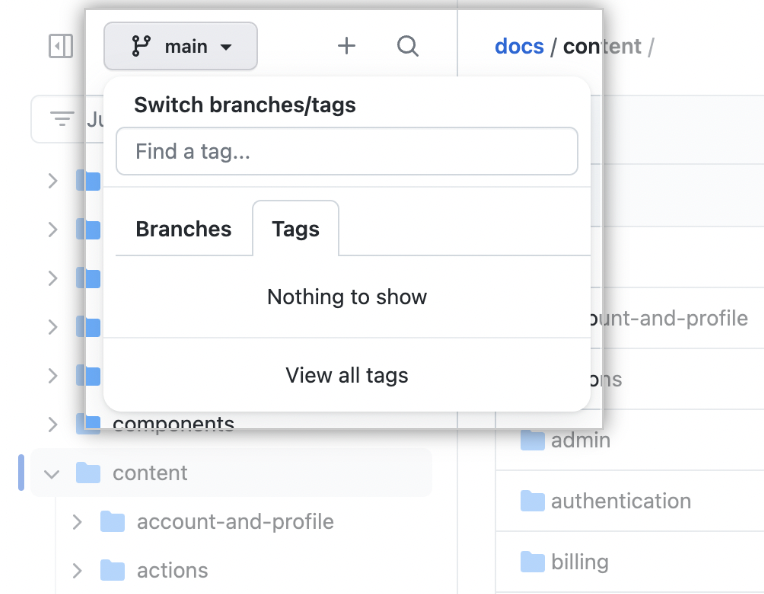
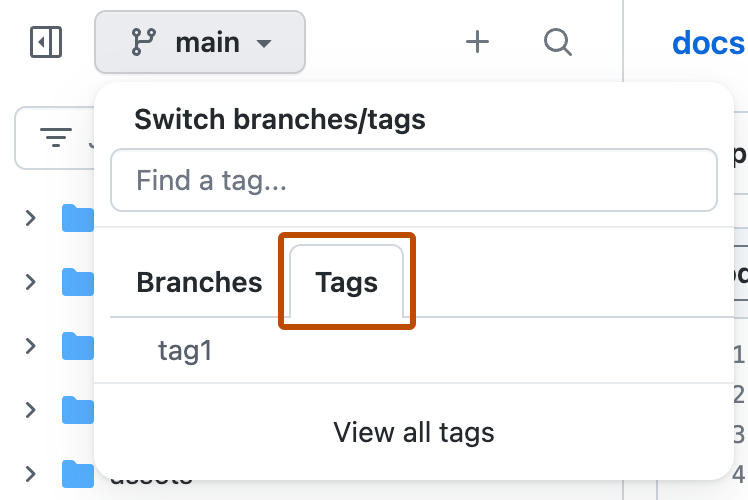
Add content for new code view and new code search public beta (#34948)

diff --git a/content/repositories/working-with-files/managing-files/navigating-files-with-the-new-code-view.md b/content/repositories/working-with-files/managing-files/navigating-files-with-the-new-code-view.md
@@ -11,16 +11,14 @@ shortTitle: New code view (beta)
 
 {% note %}
 
-**Note**: {% data reusables.search.code-search-code-view-beta-note %} 
+**Note**: {% data reusables.search.code-search-code-view-beta-note %}
 
 {% data reusables.search.code-search-link %}
 
 {% endnote %}
 
 ## About the new code view (beta)
-The new code view beta improves navigation with a file tree view, simplifies file editing, introduces a symbols pane for symbol search and navigation, and updates the blame view to maintain file context. The new code view is integrated with a new code search engine and search interface in a limited public beta on {% data variables.product.prodname_dotcom_the_website %}. {% data reusables.search.code-search-link %}
-
-To get access to the new code view (beta), along with the new code search, you can sign up for the [waitlist](https://github.com/features/code-search-code-view/signup).
+The new code view beta improves navigation with a file tree view, simplifies file editing, introduces a symbols pane for symbol search and navigation, and updates the blame view to maintain file context. The new code view is integrated with a new code search engine and search interface in a public beta on {% data variables.product.prodname_dotcom_the_website %}. {% data reusables.search.code-search-link %}
 
 To provide feedback on the new code view beta, see the [discussion forum](https://github.com/orgs/community/discussions/categories/repositories).
 
@@ -32,36 +30,25 @@ To provide feedback on the new code view beta, see the [discussion forum](https:
 The new file tree view is a panel that displays a repository's directories and files within an easily navigable tree. You can move between directories and files quickly and understand the context for each item you view.
 
 1. Select a repository, then click a directory or file within that repository to open the file tree view.
+1. To search for a specific directory or file, in the file tree view, click the {% octicon "filter" aria-label="The filter icon" %} **Jump to file** search bar, then type the directory or file name and select the directory or file from the results. You can view the file path for a directory or file below each search result.
 
-  ![Screenshot of the "github/docs" repository with emphasis on the file tree view](/assets/images/help/repository/file-tree-view-directory-selected.png)
+  ![Screenshot of the file tree view for a repository. A search bar, labeled "Jump to file", is outlined in dark orange.](/assets/images/help/repository/file-tree-view-jump-to-file.png)
 
-1. To search for a specific directory or file, click the {% octicon "filter" aria-label="The filter icon" %} **Jump to file** search bar, then type the directory or file name and select the directory or file from the results. You can view the file path for a directory or file below each search result.
-
-  ![Screenshot of the file tree view with emphasis on the "Jump to file" search bar](/assets/images/help/repository/file-tree-view-jump-to-file.png)
-
-     - To search within the repository using the {% data variables.product.prodname_dotcom %} search bar, click {% octicon "search" aria-label="The search icon" %}.
-
-        ![Screenshot of the file tree view with emphasis on the search icon](/assets/images/help/repository/file-tree-view-search-icon.png)
+     - To search within the repository using the {% data variables.product.prodname_dotcom %} search bar, click {% octicon "search" aria-label="The search icon" %} in the file tree view.
 
 1. To switch between branches, select the {% octicon "git-branch" aria-label="The branch icon" %} branch dropdown menu, then click the desired branch from the results. To view all branches for a repository, click **View all branches**.
 
-  ![Screenshot of the file tree view with emphasis on the "Branches" tab of the branch dropdown menu](/assets/images/help/repository/file-tree-view-branch-dropdown.png)
+  ![Screenshot of the file tree view for a repository. A dropdown menu for switching branches is expanded and outlined in dark orange.](/assets/images/help/repository/file-tree-view-branch-dropdown.png)
 
-1. To switch between tags, select {% octicon "git-branch" aria-label="The branch icon" %} branch dropdown menu, click the **Tags** tab, then click the desired tag from the results. To view all tags for a repository, click **View all tags**.
+1. To switch between tags, select the {% octicon "git-branch" aria-label="The branch icon" %} branch dropdown menu, click the **Tags** tab, then click the desired tag from the results. To view all tags for a repository, click **View all tags**.
 
-  ![Screenshot of the file tree view with emphasis on the "Tags" tab of the branch dropdown menu](/assets/images/help/repository/file-tree-view-branch-dropdown-tags.png)
+  ![Screenshot of the file tree view. A dropdown menu for switching branches is expanded, and a tab, labeled "Tags", is outlined in dark orange.](/assets/images/help/repository/file-tree-view-branch-dropdown-tags.png)
 
 ## Working with files
-The new code view also includes updates to the ways in which you work with files. Existing functionality like editing a file, creating or uploading a file, and deleting a file or directory has been streamlined. You now have quick access to editing a file in github.dev or {% data variables.product.prodname_desktop %} and an integrated search-in-file function. 
+The new code view also includes updates to the ways in which you work with files. Existing functionality like editing a file, creating or uploading a file, and deleting a file or directory has been streamlined. You now have quick access to editing a file in github.dev or {% data variables.product.prodname_desktop %} and an integrated search-in-file function.
 
 1. Select a repository, then click a file within that repository to open the new code view.
-
-  ![Screenshot of the "github/docs" repository with emphasis on a selected file in the file tree view](/assets/images/help/repository/file-tree-view-file-selected.png)
-
 1. To edit a file in the integrated file editor, click {% octicon "pencil" aria-label="The pencil icon" %}.
-
-  ![Screenshot of the file editor in the new code view with emphasis on the edit icon](/assets/images/help/repository/code-view-edit-icon.png)
-
 1. To edit a file on the {% data variables.codespaces.serverless %} web-based editor or {% data variables.product.prodname_desktop %}, select {% octicon "triangle-down" aria-label="The downwards-facing triangle icon" %} next to {% octicon "pencil" aria-label="The pencil icon" %}, then click either **github.dev** or **{% data variables.product.prodname_desktop %}**.
 
   {% note %}
@@ -69,8 +56,6 @@ The new code view also includes updates to the ways in which you work with files
   **Note:** The {% data variables.codespaces.serverless %} editor is currently in beta preview. You can provide feedback [in our discussions](https://github.com/community/community/discussions/categories/general).
 
   {% endnote %}
-
-  ![Screenshot of the file editor in the new code view with emphasis on the edit dropdown menu](/assets/images/help/repository/code-view-edit-dropdown.png)
 
 1. To find specific characters within a file, view the raw code of the file by clicking the **Code** button. Next, press <kbd>Command</kbd>+<kbd>F</kbd> (Mac) or <kbd>Ctrl</kbd>+<kbd>F</kbd> (Windows/Linux) and type the characters you want to find. You can navigate between results by pressing <kbd>Return</kbd> (Mac) or <kbd>Enter</kbd> (Windows/Linux), or by clicking {% octicon "chevron-down" aria-label="The downwards-facing chevron icon" %} and {% octicon "chevron-up" aria-label="The upwards-facing chevron icon" %}.
 
@@ -80,19 +65,13 @@ The new code view also includes updates to the ways in which you work with files
 
   {% endnote %}
 
-  ![Screenshot of the "Find in file" function in the new code view](/assets/images/help/repository/code-view-find-in-file.png)
+1. To create a new file in a specific directory, navigate to the chosen directory. Next, select the **Add file** {% octicon "triangle-down" aria-label="The downwards-facing triangle icon" %} dropdown menu, then click {% octicon "plus" aria-label="The plus sign icon" %} **Create new file**.
 
-1. To add a new file to a specific directory, click that directory, then click {% octicon "plus" aria-label="The plus sign icon" %} **New file**, or click the {% octicon "plus" aria-label="The plus sign icon" %} in the file tree view.
-
-  ![Screenshot of the file tree view with emphasis on the plus icon](/assets/images/help/repository/file-tree-view-new-file-icon.png)
-
+  Alternatively, you can click {% octicon "plus" aria-label="The plus sign icon" %} in the file tree view.
 1. To delete a directory or file, navigate to the directory or file and click {% octicon "kebab-horizontal" aria-label="The horizontal kebab icon" %} . Then, click **Delete directory** or **Delete file**.
+1. To upload a file, navigate to the chosen directory. Next, select the **Add file** {% octicon "triangle-down" aria-label="The downwards-facing triangle icon" %} dropdown menu, then click {% octicon "upload" aria-label="The upload icon" %} **Upload files**.
 
-  ![Screenshot of the options menu in the new code view with emphasis on the "Delete directory" option](/assets/images/help/repository/code-view-delete-directory.png)
-
-1. To upload a file, navigate to the chosen directory, then click {% octicon "upload" aria-label="The upload icon" %} **Upload files** or drag and drop the file into your browser.
-
-  ![Screenshot of the "Upload files" button in the new code view](/assets/images/help/repository/code-view-upload-files.png)
+  Alternatively, you can drag and drop files into your browser.
 
 ## Using the symbols pane
 You can now quickly view and navigate between symbols such as functions or classes in your code with the symbols pane. You can search for a symbol in a single file, in all files in a repository, or even in all public repositories on {% data variables.product.prodname_dotcom %}.
@@ -100,60 +79,28 @@ You can now quickly view and navigate between symbols such as functions or class
 Symbol search is a feature of the new code search (beta). For more information, see "[AUTOTITLE](/search-github/github-code-search/understanding-github-code-search-syntax#symbol-qualifier)."
 
 1. Select a repository, then navigate to a file containing symbols.
-2. To bring up the symbols pane, click {% octicon "code-square" aria-label="The code square icon" %}.
-
-  ![Screenshot of the symbols pane icon in the new code view](/assets/images/help/repository/code-view-symbols-pane-icon.png)
+1. To bring up the symbols pane, above the file content, click {% octicon "code-square" aria-label="The code square icon" %}.
 
   Alternatively, you can open the symbols pane by clicking an eligible symbol in your file. Clickable symbols are highlighted in yellow when you hover over them.
 
-  ![Screenshot of a file in the new code view with emphasis on a clickable symbol](/assets/images/help/repository/code-view-clickable-symbol.png)
-
 1. Click the symbol you would like to find from the symbols pane or within the file itself.
 
-  ![Screenshot of the symbols pane with emphasis on an auto-populated symbol](/assets/images/help/repository/code-view-symbols-pane-symbol.png)
-
-   - To search for a symbol in the repository as a whole, click **Search for this symbol in this repository**. To search for a symbol in all repositories on {% data variables.product.prodname_dotcom %}, click **all repositories**.
-
-      ![Screenshot of the symbols pane with emphasis on the options to broaden the scope of the search for a symbol](/assets/images/help/repository/code-view-symbols-pane-expand-search.png)
+   - To search for a symbol in the repository as a whole, in the symbols pane, click **Search for this symbol in this repository**. To search for a symbol in all repositories on {% data variables.product.prodname_dotcom %}, click **all repositories**.
 
 1. To navigate between references to a symbol, click {% octicon "chevron-down" aria-label="The downwards-facing chevron icon" %} or {% octicon "chevron-up" aria-label="The upwards-facing chevron icon" %}.
-
-  ![Screenshot of the symbols pane with emphasis on the search navigation chevrons](/assets/images/help/repository/code-view-symbol-result-navigation.png)
-
 1. To navigate to a specific reference to a symbol, click a result of the symbol search under {% octicon "chevron-down" aria-label="The downwards-facing chevron icon" %} **In this file**.
-
-  ![Screenshot of the symbols pane with emphasis on a result of the symbol search](/assets/images/help/repository/code-view-symbol-search-result.png)
-
 1. To exit the search for a specific symbol, click {% octicon "arrow-left" aria-label="The left arrow icon" %} **All Symbols**.
-
-  ![Screenshot of the symbols pane with emphasis on the "All Symbols" button](/assets/images/help/repository/code-view-symbols-pane-all-symbols.png)
 
 ## Using the blame view
 Rather than losing file context when you enter the blame view, you can now use the new code view to quickly toggle between the blame view, the raw code view, and the preview for a file (depending on the file type).
 
 1. Select a repository, then click a file within that repository to open the new code view.
+1. To see the revision history of the file, above the file content, click **Blame**. This view gives you a line-by-line revision history, with the code in a file separated by commit. Each commit lists the author, commit description, and commit date.
+   - To see versions of a file before a particular commit, click {% octicon "versions" aria-label="The versions icon" %}. Alternatively, to see more detail about a particular commit, click the commit message.
+      ![Screenshot of a commit in the blame view. The commit message and versions icon are outlined in dark orange.](/assets/images/help/repository/code-view-blame-commit-options.png)
 
-  ![Screenshot of the "github/docs" repository with emphasis on a selected file in the file tree view](/assets/images/help/repository/file-tree-view-file-selected.png)
-
-1. To see the revision history of the file, click **Blame**. This view gives you a line-by-line revision history, with the code in a file separated by commit. Each commit lists the author, commit description, and commit date.
-
-  ![Screenshot of the new code view with emphasis on the "Blame" button](/assets/images/help/repository/code-view-blame-button.png)
-
-   - To see versions of a file before a particular commit, click {% octicon "versions" aria-label="The versions icon" %}.
-
-      ![Screenshot of a commit in the blame view with emphasis on the versions icon](/assets/images/help/repository/code-view-blame-hide-commit.png)
-
-   - To see more detail about particular commits, click the commit description.
-
-      ![Screenshot of a commit in the blame view with emphasis on the commit description](/assets/images/help/repository/code-view-blame-commit-description.png)
-
-1. To return to the raw code view, click **Code**.
-
-  ![Screenshot of the code view toolbar with emphasis on the code view button](/assets/images/help/repository/code-view-button.png)
-
-   - If you are viewing a Markdown file, you can also click **Preview** to return to the view with Markdown formatting applied.
-
-      ![Screenshot of the code view toolbar with emphasis on the Markdown preview button](/assets/images/help/repository/code-view-preview-button.png)
+1. To return to the raw code view, above the file content, click **Code**.
+   - If you are viewing a Markdown file, above the file content, you can also click **Preview** to return to the view with Markdown formatting applied.
 
 ## Further reading
 

diff --git a/content/search-github/github-code-search/using-github-code-search.md b/content/search-github/github-code-search/using-github-code-search.md
@@ -35,35 +35,24 @@ For more information about the search syntax of the new code search (beta), see 
 1. In the top navigation of {% data variables.product.prodname_dotcom_the_website %}, click the search bar.
 1. Under the search bar, you will see a list of suggestions organized by category, including recent searches and suggested repositories, teams, and projects that you have access to. You can also see a list of saved searches that you have created. For more information on saved searches, see "[Creating and managing saved searches](#creating-and-managing-saved-searches)."
 
-    ![Search bar with suggestions and saved searches](/assets/images/help/search/code-search-beta-search-bar.png)
+    ![Screenshot of the {% data variables.product.prodname_dotcom %} search bar. There is a list of search suggestions by category below the search bar.](/assets/images/help/search/code-search-beta-search-bar.png)
 
     If you click on any of the specific suggestions, you will be taken directly to the page for that suggestion (for example, the repository or project page). If you click on a recent or saved search, depending on the type of search, the search query will appear in the search bar or you will be taken to the search results page for the search term.
 
 1. Once you start typing a search query, you will see a list of completions and suggestions that match your query. You can click on a suggestion to jump to a specific location. As you type more qualifiers, you will see more specific suggestions, such as code files you can jump to directly.
-   
-   ![Search bar with a query and code suggestions](/assets/images/help/search/code-search-beta-search-bar-code-suggestions.png)
 
-1.  After typing your query, you can also press Enter to go to the full search results view, where you can see each match and a visual interface for applying filters. For more information, see "[Using the search results view](#using-the-search-results-view)."
+   ![Screenshot of a search for "repo:octocat/spoon-knife". The code results are outlined in dark orange.](/assets/images/help/search/code-search-beta-search-bar-code-suggestions.png)
+
+2.  After typing your query, you can also press Enter to go to the full search results view, where you can see each match and a visual interface for applying filters. For more information, see "[Using the search results view](#using-the-search-results-view)."
 
 ## Creating and managing saved searches
 
-1. In the top navigation of {% data variables.product.prodname_dotcom_the_website %}, click the search bar and start typing a search query (or any letter).
+1. In the top navigation of {% data variables.product.prodname_dotcom_the_website %}, click the search bar and type `saved:`.
 1. Under the search bar, the "Saved searches" section should now appear. Click {% octicon "plus-circle" aria-label="The plus-circle icon" %} **Create saved search**.
-
-    !["Create saved search" button in search bar](/assets/images/help/search/code-search-beta-create-saved-search.png)
-
 1. In the pop-up window, fill out the name you want for your query and the query that you want to save. Click **Create saved search**.
-
-    !["Create saved search" window](/assets/images/help/search/code-search-beta-create-saved-search-window.png)
-
 1. If you click again on the search bar, you can now see your saved search in the "Saved searches" section under the search bar. Clicking on a saved search entry will add the query to the search bar and filter the suggestions accordingly.
-
-  ![Use saved search in search bar](/assets/images/help/search/code-search-beta-saved-search-in-search-bar.png)
-
-    - To edit a saved search, in the "Saved searches" section, click {% octicon "pencil" aria-label="The pencil icon" %} to the right of the saved search. 
+    - To edit a saved search, in the "Saved searches" section, click {% octicon "pencil" aria-label="The pencil icon" %} to the right of the saved search.
     - To delete a saved search, click {% octicon "trash" aria-label="The trash icon" %} to the right of the saved search.
-
-  ![Buttons to edit or delete a saved search](/assets/images/help/search/code-search-beta-edit-or-delete-saved-search.png)
 
 ## Using the search results view
 
@@ -72,5 +61,3 @@ The search results view already exists for the classic search on GitHub, and the
 To construct a search query, as well as view and filter results, using a visual interface, you can use the {% data variables.search.search_page_url %} or {% data variables.search.advanced_url %}. If you press Enter after typing a search query in the search bar, you will also be taken to the search results view.
 
 On the search results view, you can navigate between different types of search results, including code, issues, pull request, repositories, and more. You can also view and use filters.
-
-![Search results view](/assets/images/help/search/code-search-beta-results-view.png)

diff --git a/content/search-github/github-code-search/about-github-code-search.md b/content/search-github/github-code-search/about-github-code-search.md
@@ -26,15 +26,13 @@ On top of the new code search engine, the code search (beta) includes new featur
 
 The new code search (beta) is tightly integrated with a redesigned code view (beta) on {% data variables.product.prodname_dotcom_the_website %}. {% data reusables.search.code-view-link %}
 
-To get access to the new code search (beta), along with the new code view, you can sign up for the [waitlist](https://github.com/features/code-search-code-view/signup). 
-
 ## Enabling and disabling the new code search and code view (beta)
 
 {% data reusables.search.enabling-and-disabling-code-search-and-view-beta %}
 
 ## Limitations
 
-We have indexed many public repositories for the new code search (beta), and continue to index more. Additionally, the private repositories of GitHub users in the beta are indexed and searchable by beta participants that already have access to those private repositories on GitHub.com. However, very large repositories may not be indexed at this time, and not all code is indexed. 
+We have indexed many public repositories for the new code search (beta), and continue to index more. Additionally, the private repositories of GitHub users in the beta are indexed and searchable by beta participants that already have access to those private repositories on GitHub.com. However, very large repositories may not be indexed at this time, and not all code is indexed.
 
 The current limitations on indexed code are:
    - Vendored and generated code is excluded (as determined by [Enry](https://github.com/go-enry/go-enry))

diff --git a/data/reusables/search/classic-search-code-search-note.md b/data/reusables/search/classic-search-code-search-note.md
@@ -1,3 +1,3 @@
 This article refers to the classic GitHub search experience. If you are participating in the new code search and code view beta and have enabled the new functionality, the syntax for searching code and the GitHub.com search interface will differ. However, the search syntax for non-code search types will stay the same.
 
-For information about the new code search and code view, currently in limited public beta, see "[AUTOTITLE](/search-github/github-code-search/about-github-code-search)." To try out the new code search and code view beta, join the [waitlist](https://github.com/features/code-search-code-view/signup).
+For information about the new code search and code view, currently in public beta, see "[AUTOTITLE](/search-github/github-code-search/about-github-code-search)" and "[AUTOTITLE](/repositories/working-with-files/managing-files/navigating-files-with-the-new-code-view)."

diff --git a/data/reusables/search/enabling-and-disabling-code-search-and-view-beta.md b/data/reusables/search/enabling-and-disabling-code-search-and-view-beta.md
@@ -1,5 +1,3 @@
-You will receive an email when you are accepted from the waitlist to join the beta. Once given access, the new code search and code view beta will be automatically enabled on your account.
-
 You can disable or enable the beta on {% data variables.product.prodname_dotcom_the_website %} anytime. Note that this setting applies to both the code search and the code view.
 
 {% data reusables.feature-preview.feature-preview-setting  %}

diff --git a/data/reusables/search/code-search-code-view-beta-note.md b/data/reusables/search/code-search-code-view-beta-note.md
@@ -1,1 +1,1 @@
-The new code search and code view are in limited public beta. To join the waitlist for access, visit https://github.com/features/code-search-code-view/signup. 
+The new code search and code view are in public beta.
